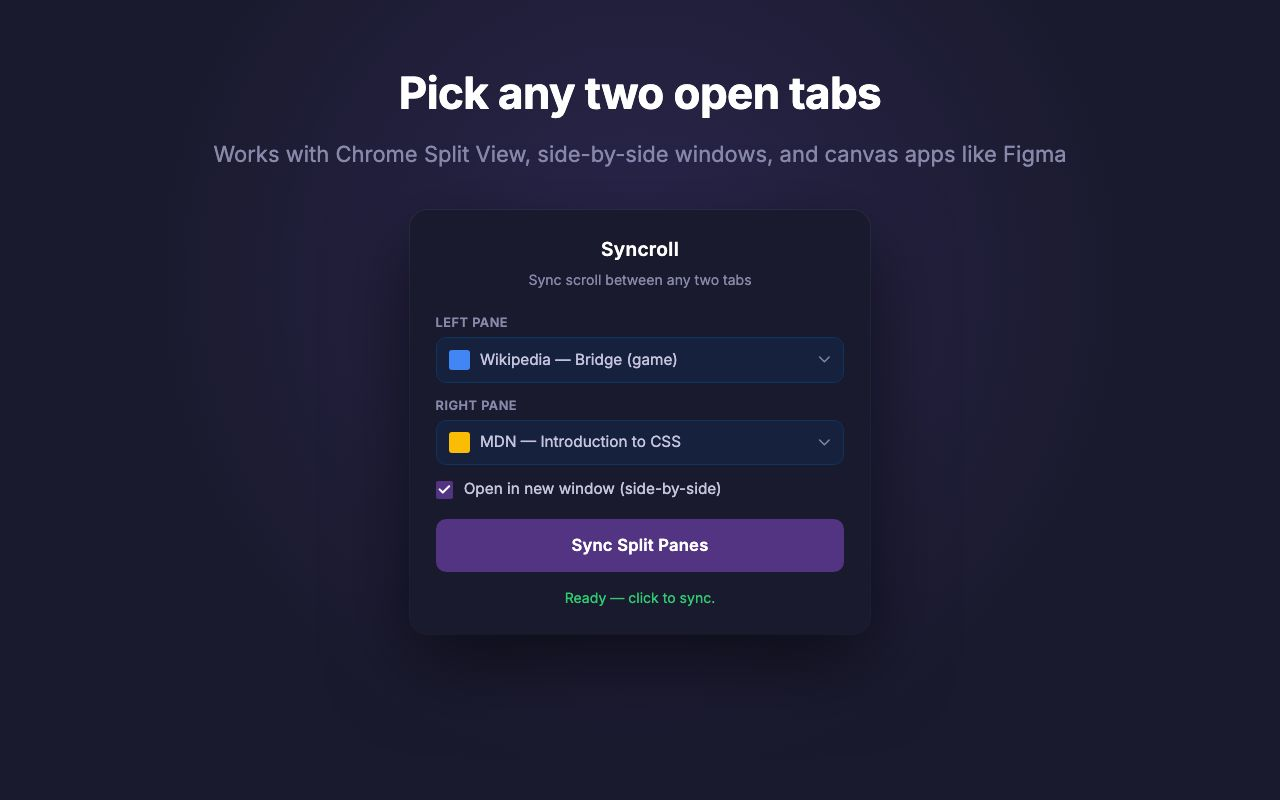
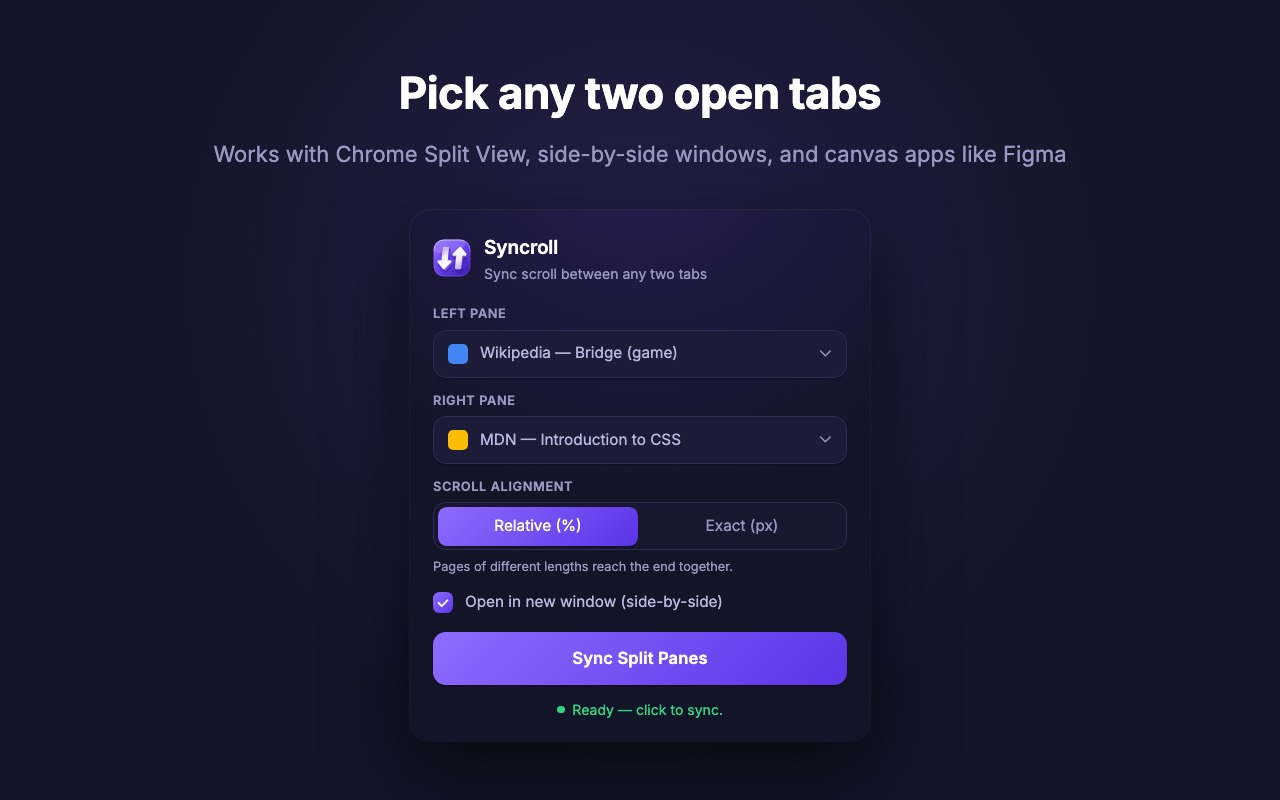
docs: refresh landing page and media for v1.2.0
- add a "Percent or pixel alignment" card to Why Syncroll, and a
  Scroll alignment step to the install instructions
- mention both alignment modes in the standard-websites copy and bump
  softwareVersion to 1.2.0
- point og:video, twitter:player, the JSON-LD contentUrl/embedUrl and
  the click-to-play embed at the re-uploaded promo (u-SgQDwqzhw), and
  refresh uploadDate to match
- re-render feature-*.jpeg and video-poster.jpeg with the new icon,
  the refreshed popup design, and the higher-contrast palette

Changed region(s): [[0.3125, 0.375, 0.6875, 0.9062], [0.3125, 0.25, 0.5938, 0.375]]

diff --git a/docs/index.html b/docs/index.html
@@ -27,9 +27,9 @@
   <meta property="og:image:height" content="720">
   <meta property="og:image:alt" content="Syncroll — Scroll two tabs together in Chrome's Split View">
   <meta property="og:locale" content="en_US">
-  <meta property="og:video" content="https://www.youtube.com/watch?v=vv8RfyK7W4g">
-  <meta property="og:video:url" content="https://www.youtube.com/watch?v=vv8RfyK7W4g">
-  <meta property="og:video:secure_url" content="https://www.youtube.com/watch?v=vv8RfyK7W4g">
+  <meta property="og:video" content="https://www.youtube.com/watch?v=u-SgQDwqzhw">
+  <meta property="og:video:url" content="https://www.youtube.com/watch?v=u-SgQDwqzhw">
+  <meta property="og:video:secure_url" content="https://www.youtube.com/watch?v=u-SgQDwqzhw">
   <meta property="og:video:type" content="text/html">
   <meta property="og:video:width" content="1280">
   <meta property="og:video:height" content="720">
@@ -40,7 +40,7 @@
   <meta name="twitter:description" content="Pick any two open tabs and scroll them together — Chrome Split View or two side-by-side windows. Works on websites, ChatGPT, Figma, and more.">
   <meta name="twitter:image" content="https://syncroll.jubayeramb.com/video-poster.jpeg">
   <meta name="twitter:image:alt" content="Syncroll — Scroll two tabs together in Chrome's Split View">
-  <meta name="twitter:player" content="https://www.youtube.com/embed/vv8RfyK7W4g">
+  <meta name="twitter:player" content="https://www.youtube.com/embed/u-SgQDwqzhw">
   <meta name="twitter:player:width" content="1280">
   <meta name="twitter:player:height" content="720">
 
@@ -60,7 +60,7 @@
         "url": "https://syncroll.jubayeramb.com/",
         "installUrl": "https://chromewebstore.google.com/detail/syncroll-split-view-sync/ghpgfihdllhgmjkgkjnkmoonelfokpdi",
         "image": "https://syncroll.jubayeramb.com/video-poster.jpeg",
-        "softwareVersion": "1.1.0",
+        "softwareVersion": "1.2.0",
         "offers": {
           "@type": "Offer",
           "price": "0",
@@ -83,10 +83,10 @@
         "name": "Syncroll demo — Scroll two tabs together in Chrome's Split View",
         "description": "30-second walkthrough showing Syncroll syncing scroll position across two Chrome Split View panes — for websites, ChatGPT conversations, and Figma canvases.",
         "thumbnailUrl": "https://syncroll.jubayeramb.com/video-poster.jpeg",
-        "uploadDate": "2026-05-08",
+        "uploadDate": "2026-09-16",
         "duration": "PT30S",
-        "contentUrl": "https://www.youtube.com/watch?v=vv8RfyK7W4g",
-        "embedUrl": "https://www.youtube-nocookie.com/embed/vv8RfyK7W4g"
+        "contentUrl": "https://www.youtube.com/watch?v=u-SgQDwqzhw",
+        "embedUrl": "https://www.youtube-nocookie.com/embed/u-SgQDwqzhw"
       }
     ]
   }
@@ -472,6 +472,10 @@
           <p>Cross-window dropdowns list every open page with its favicon. Choose the left and right pane from anywhere — no dragging tabs around to set things up first.</p>
         </div>
         <div class="why-card">
+          <h3>Percent or pixel alignment</h3>
+          <p>Choose how two pages line up: relative, so both reach the end together, or exact pixels, so they scroll the same distance and the shorter page stops at its end. Switch any time, even mid-sync.</p>
+        </div>
+        <div class="why-card">
           <h3>Canvas-app pan sync</h3>
           <p>Wheel events relayed across panes so Figma, Miro, and Excalidraw canvases pan together in lock-step. A capability built right into Syncroll from day one.</p>
         </div>
@@ -506,7 +510,7 @@
           <img src="feature-websites.jpeg" alt="Two browser windows showing articles scrolled to the same position" width="1280" height="800" loading="lazy" decoding="async">
           <div class="feature-body">
             <h3>Standard websites</h3>
-            <p>Wikipedia, MDN, news sites. Proportional sync keeps pages of different lengths aligned.</p>
+            <p>Wikipedia, MDN, news sites. Proportional sync keeps pages of different lengths aligned, or switch to exact-pixel alignment when you want both sides to travel the same distance.</p>
           </div>
         </div>
         <div class="feature">
@@ -532,6 +536,7 @@
         <li>Install Syncroll from the <a href="https://chromewebstore.google.com/detail/syncroll-split-view-sync/ghpgfihdllhgmjkgkjnkmoonelfokpdi" target="_blank" rel="noopener"><strong>Chrome Web Store</strong></a>.</li>
         <li>Click the Syncroll icon and pick the <strong>left</strong> and <strong>right</strong> tab from the dropdowns. Any tab in any window works.</li>
         <li>Already in Chrome's native Split View? Both panes are detected automatically. Or tick <strong>Open in new window</strong> to have Syncroll arrange two side-by-side windows for you.</li>
+        <li>Pick a <strong>Scroll alignment</strong>: <strong>Relative (%)</strong> so both pages reach the end together, or <strong>Exact (px)</strong> so both travel the same distance. Your choice is remembered.</li>
         <li>Hit <strong>Sync Split Panes</strong>. Scroll either side; the other follows.</li>
       </ol>
     </section>
@@ -565,7 +570,7 @@
       if (!btn || !frame) return;
       btn.addEventListener("click", function () {
         var iframe = document.createElement("iframe");
-        iframe.src = "https://www.youtube-nocookie.com/embed/vv8RfyK7W4g?autoplay=1&rel=0&modestbranding=1";
+        iframe.src = "https://www.youtube-nocookie.com/embed/u-SgQDwqzhw?autoplay=1&rel=0&modestbranding=1";
         iframe.title = "Syncroll demo";
         iframe.allow = "accelerometer; autoplay; clipboard-write; encrypted-media; gyroscope; picture-in-picture; web-share";
         iframe.allowFullscreen = true;
